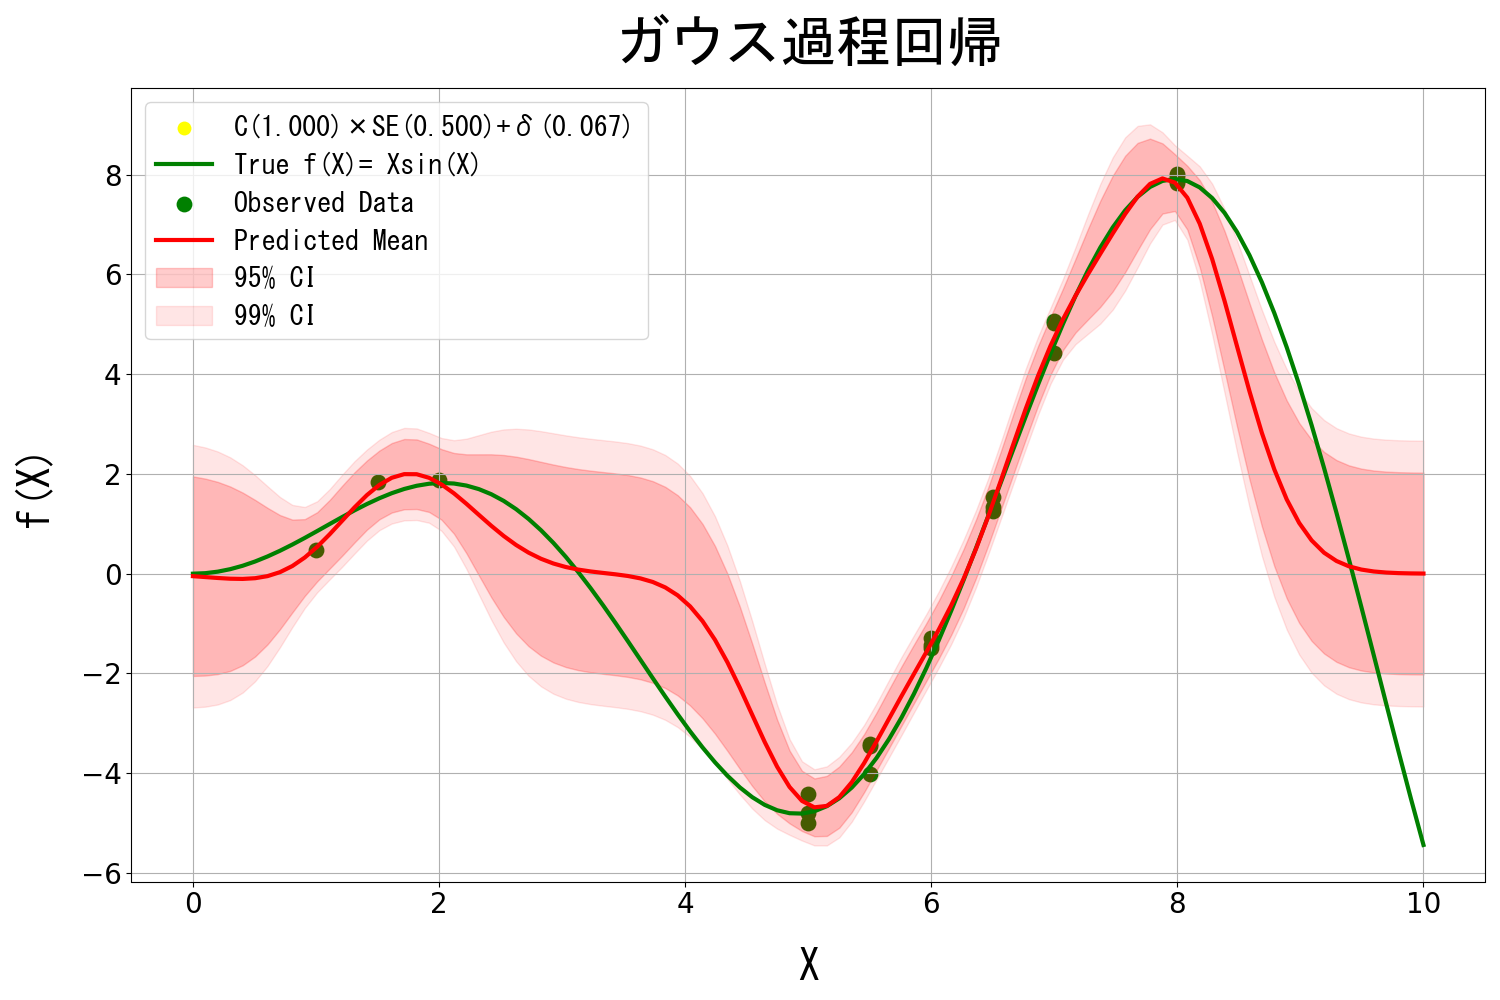
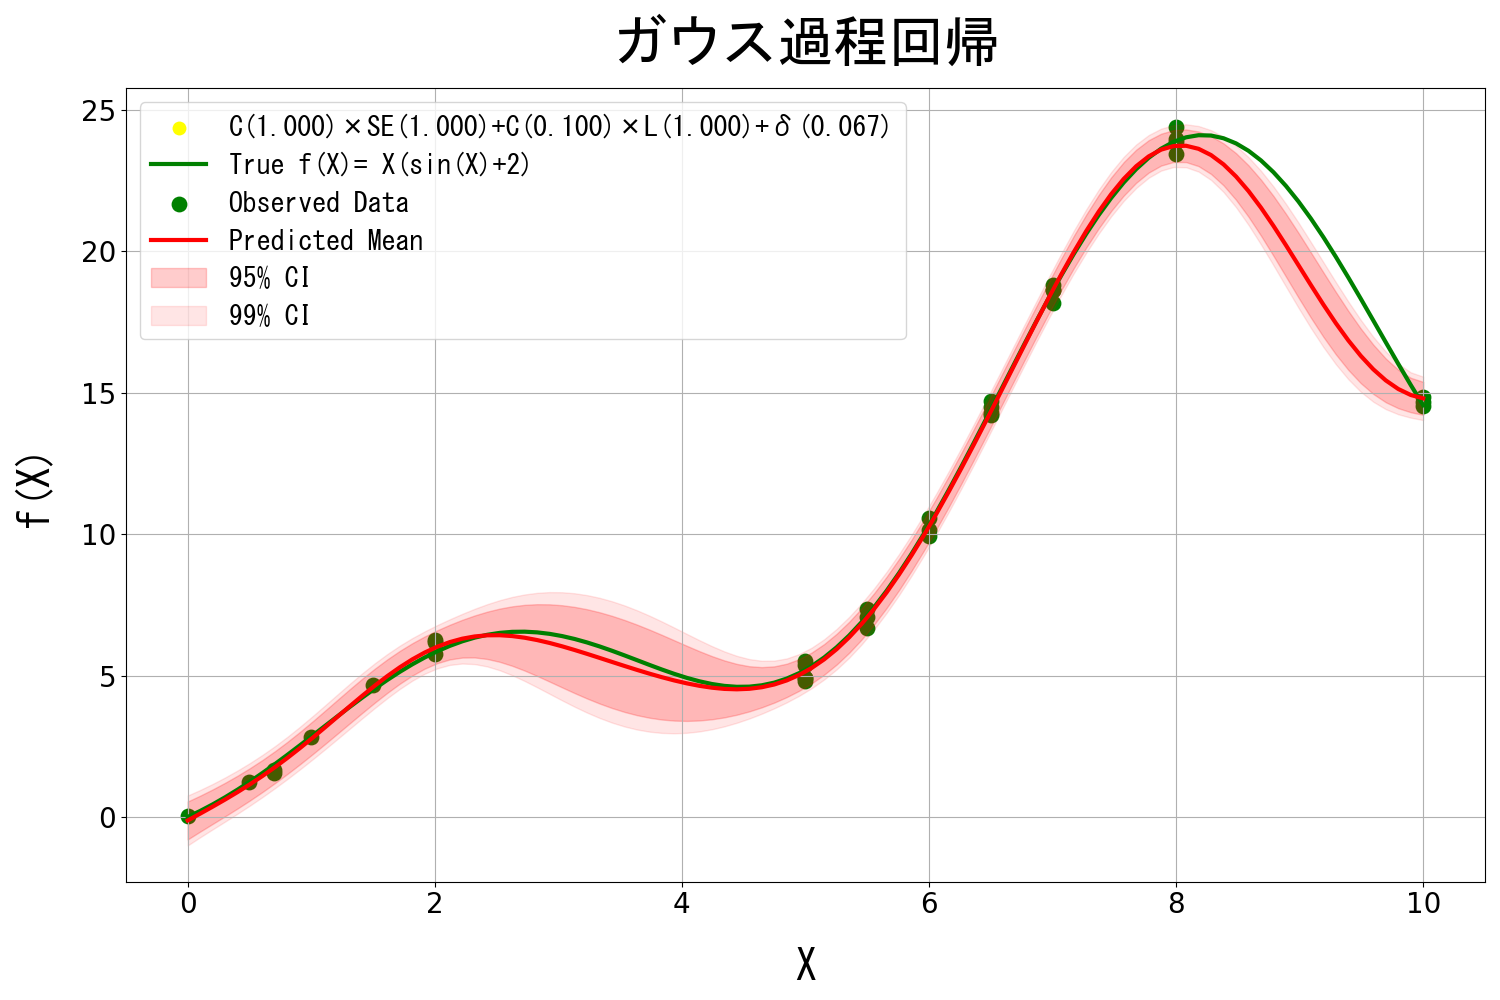
updated readme

diff --git a/A_Console/A01_PythonAndNumerics/C_AwesomeModels/3_Matrix/3001_GaussianProcessRegression/GaussianProcessRegressionExecuter.cs b/A_Console/A01_PythonAndNumerics/C_AwesomeModels/3_Matrix/3001_GaussianProcessRegression/GaussianProcessRegressionExecuter.cs
@@ -142,7 +142,7 @@ public partial class GaussianProcessRegressionExecuter
                 for (int i = 0; i < maxTryCount; i++)
                 {
                     var step = new TimeHistoryStep();
-                    step["Index"] = i;
+                    step["TrialCount"] = i;
 
 
                     // optimize
@@ -243,12 +243,12 @@ public partial class GaussianProcessRegressionExecuter
 
 
         // build model
-        var k11 = new GaussianProcessRegressionExecuter.ConstantKernel(1d);
-        var k12 = new GaussianProcessRegressionExecuter.SquaredExponentialKernel(1d);
-        var k21 = new GaussianProcessRegressionExecuter.ConstantKernel(0.1d);
-        var k22 = new GaussianProcessRegressionExecuter.LinearKernel(1d);
-        var k30 = new GaussianProcessRegressionExecuter.WhiteNoiseKernel(1 / 15d);
-        var kernel = k11 * k12 + k21 * k22 + k30;
+        var k1 = new GaussianProcessRegressionExecuter.ConstantKernel(1d);
+        var k2 = new GaussianProcessRegressionExecuter.SquaredExponentialKernel(1d);
+        var k3 = new GaussianProcessRegressionExecuter.ConstantKernel(0.1d);
+        var k4 = new GaussianProcessRegressionExecuter.LinearKernel(1d);
+        var k5 = new GaussianProcessRegressionExecuter.WhiteNoiseKernel(1 / 15d);
+        var kernel = k1 * k2 + k3 * k4 + k5;
         var gpr = new GaussianProcessRegressionExecuter(kernel);
 
 
@@ -258,7 +258,7 @@ public partial class GaussianProcessRegressionExecuter
             try
             {
                 var optimizeHistory = gpr.OptimizeParameters(X_train, Y_train, executeGridOptimization: false);
-                optimizeHistory.DrawGraph_OnPyPlot(null, "Index", logLikelihoodIndexName, preview: true);
+                optimizeHistory.DrawGraph_OnPyPlot(null, "TrialCount", logLikelihoodIndexName, preview: true);
                 //optimizeHistory.DrawGraph_OnPyPlot(null, "Index", optimizeHistory.Columns.Where(x => x.Contains("Constant")).ToArray(), preview: true);
                 //optimizeHistory.DrawGraph_OnPyPlot(null, "Index", optimizeHistory.Columns.Where(x => x.Contains("Length")).ToArray(), preview: true);
                 //optimizeHistory.DrawGraph_OnPyPlot(null, "Index", optimizeHistory.Columns.Where(x => x.Contains("Noise")).ToArray(), preview: true);

diff --git a/A_Console/A01_PythonAndNumerics/C_AwesomeModels/3_Matrix/3001_GaussianProcessRegression/README.md b/A_Console/A01_PythonAndNumerics/C_AwesomeModels/3_Matrix/3001_GaussianProcessRegression/README.md
@@ -15,27 +15,38 @@ Code set for Gaussian Process Regression.
 
 ### 🎇 Example
 
-before optimization
+- before optimization
 
 <img name="" src="https://github.com/aki32/aki32-utilities/raw/main/9_Assets/Images/A01_C_3001_Example.png" width="666">
 
-after optimization
 
-<img name="" src="https://github.com/aki32/aki32-utilities/raw/main/9_Assets/Images/A01_C_3001_Optimize.png" width="666">
+- after optimization
 
+<img name="" src="https://github.com/aki32/aki32-utilities/raw/main/9_Assets/Images/A01_C_3001_Optimized.png" width="666">
+
+
+- used kernel
+```math
+k(\mathbf{x}_i, \mathbf{x}_j) = \sigma_f^2\exp\left(-\frac{1}{2}\left(\frac{\|\mathbf{x}_i - \mathbf{x}_j\|}{\ell}\right)^2\right) + \sigma_l^2\mathbf{x}_i^{\top}\mathbf{x}_j + \sigma_n^2\delta_{ij}
+```
+
+
+- C# usage
 ```C#
 
 // build model
-var kc = new ConstantKernel(1d);
-var kse = new SquaredExponentialKernel(1d);
-var kwn = new WhiteNoiseKernel(1 / 15d);
-var kernel = kc * kse + kwn;
+var kc1 = new GaussianProcessRegressionExecuter.ConstantKernel(1d);
+var kse = new GaussianProcessRegressionExecuter.SquaredExponentialKernel(1d);
+var kc2 = new GaussianProcessRegressionExecuter.ConstantKernel(0.1d);
+var kl  = new GaussianProcessRegressionExecuter.LinearKernel(1d);
+var kwn = new GaussianProcessRegressionExecuter.WhiteNoiseKernel(1 / 15d);
+var kernel = kc1 * kse + kc2 * kl + kwn;
 var gpr = new GaussianProcessRegressionExecuter(kernel);
 
 
 // (optional) optimize parameters
 var optimizeHistory = gpr.OptimizeParameters(X_train, Y_train);
-PyPlotWrapper.LinePlot.DrawSimpleGraph(optimizeHistory[1]);
+PyPlotWrapper.LinePlot.DrawSimpleGraph(optimizeHistory["LogLikelihood"]);
 
 
 // fit and predict
@@ -45,7 +56,6 @@ var Y_95CI = Y_std.ProductForEach(1.96);
 var Y_99CI = Y_std.ProductForEach(2.58);
 
 ```
-
 
 
 
@@ -73,15 +83,13 @@ https://observablehq.com/@herbps10/gaussian-processes
 https://datachemeng.com/kernel_design_in_gpr/
 
 
-- 尤度
+- 尤度（コード内では対数取った）
 ```math
 \mathcal{L}(\mathbf{y}|\mathbf{X},\boldsymbol{\theta})=
 \frac{1}
 {(2\pi)^{\frac{n}{2}}|\mathbf{Kernel}|^{\frac{1}{2}}}
 \exp\left(-\frac{1}{2}\mathbf{y}^{\top}(\mathbf{Kernel})^{-1}\mathbf{y}\right)
 ```
-
-
 
 
 
